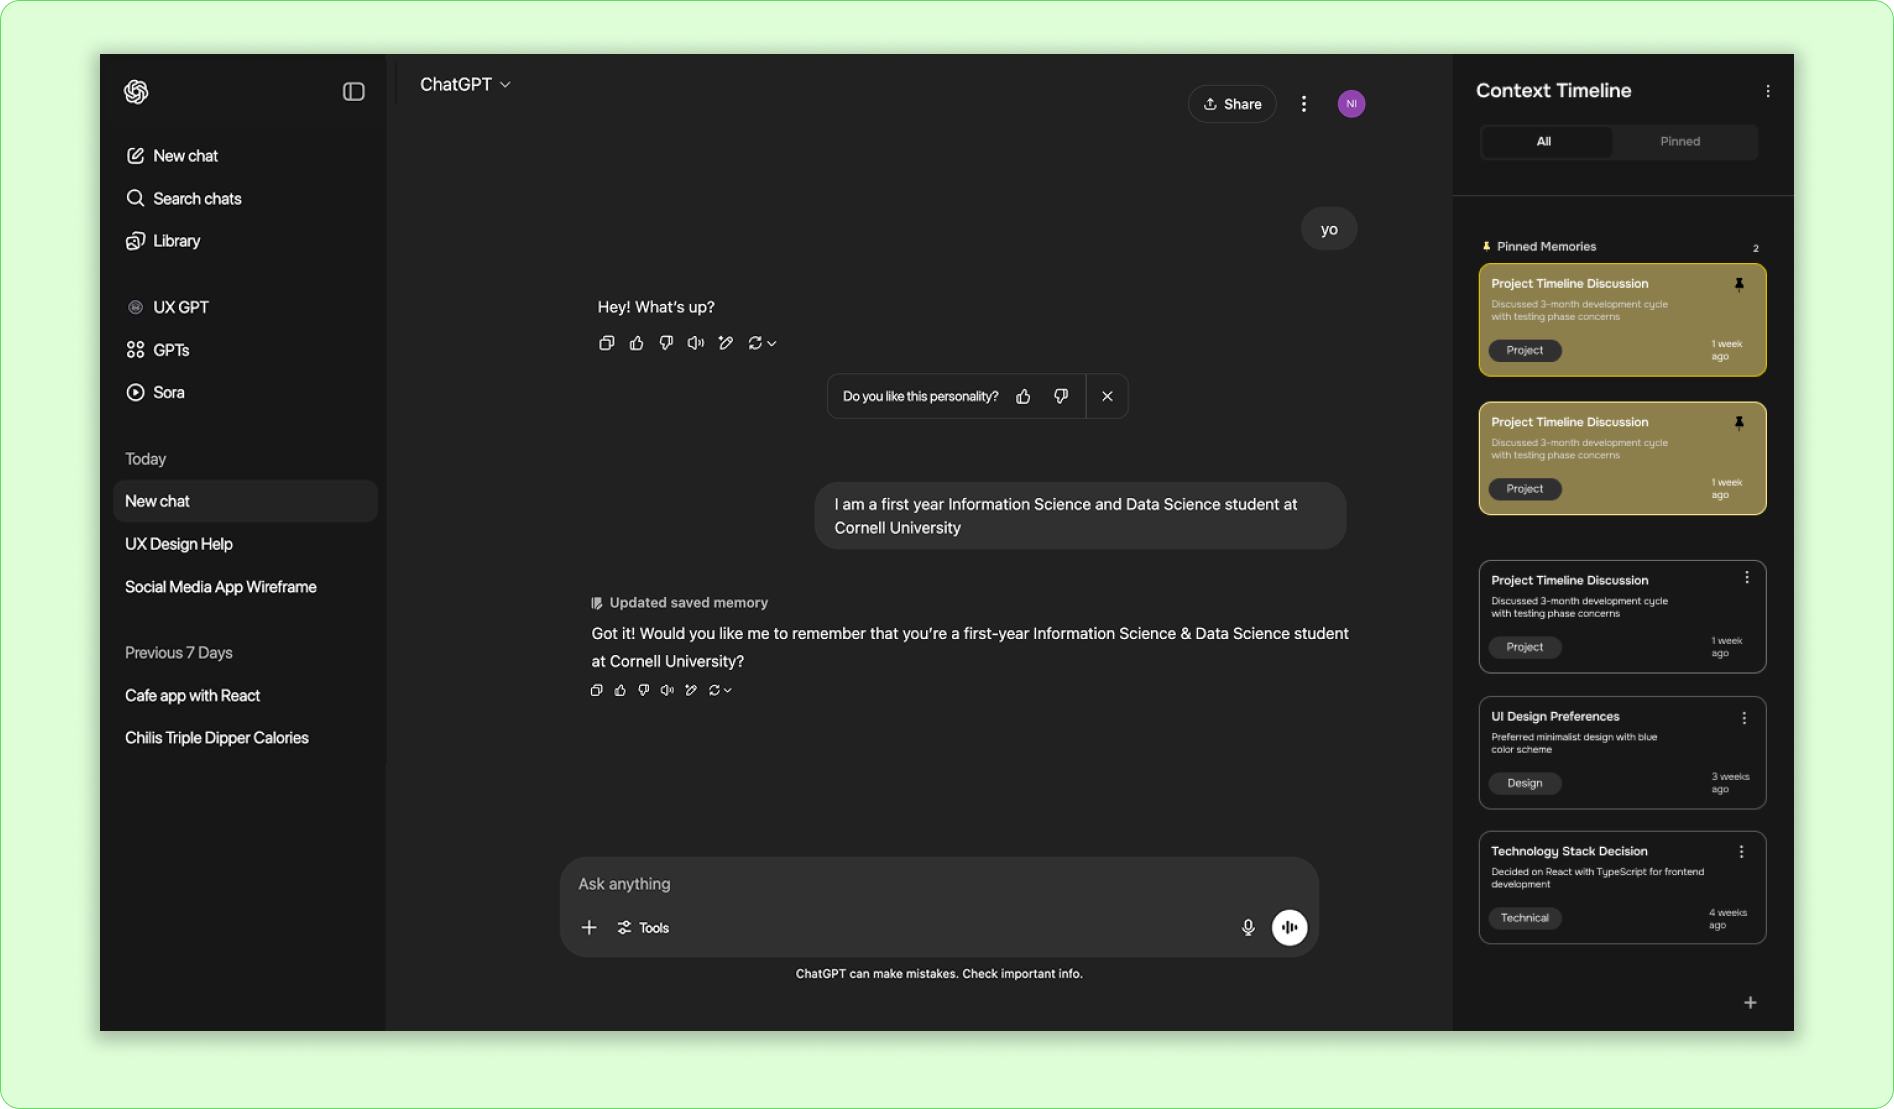
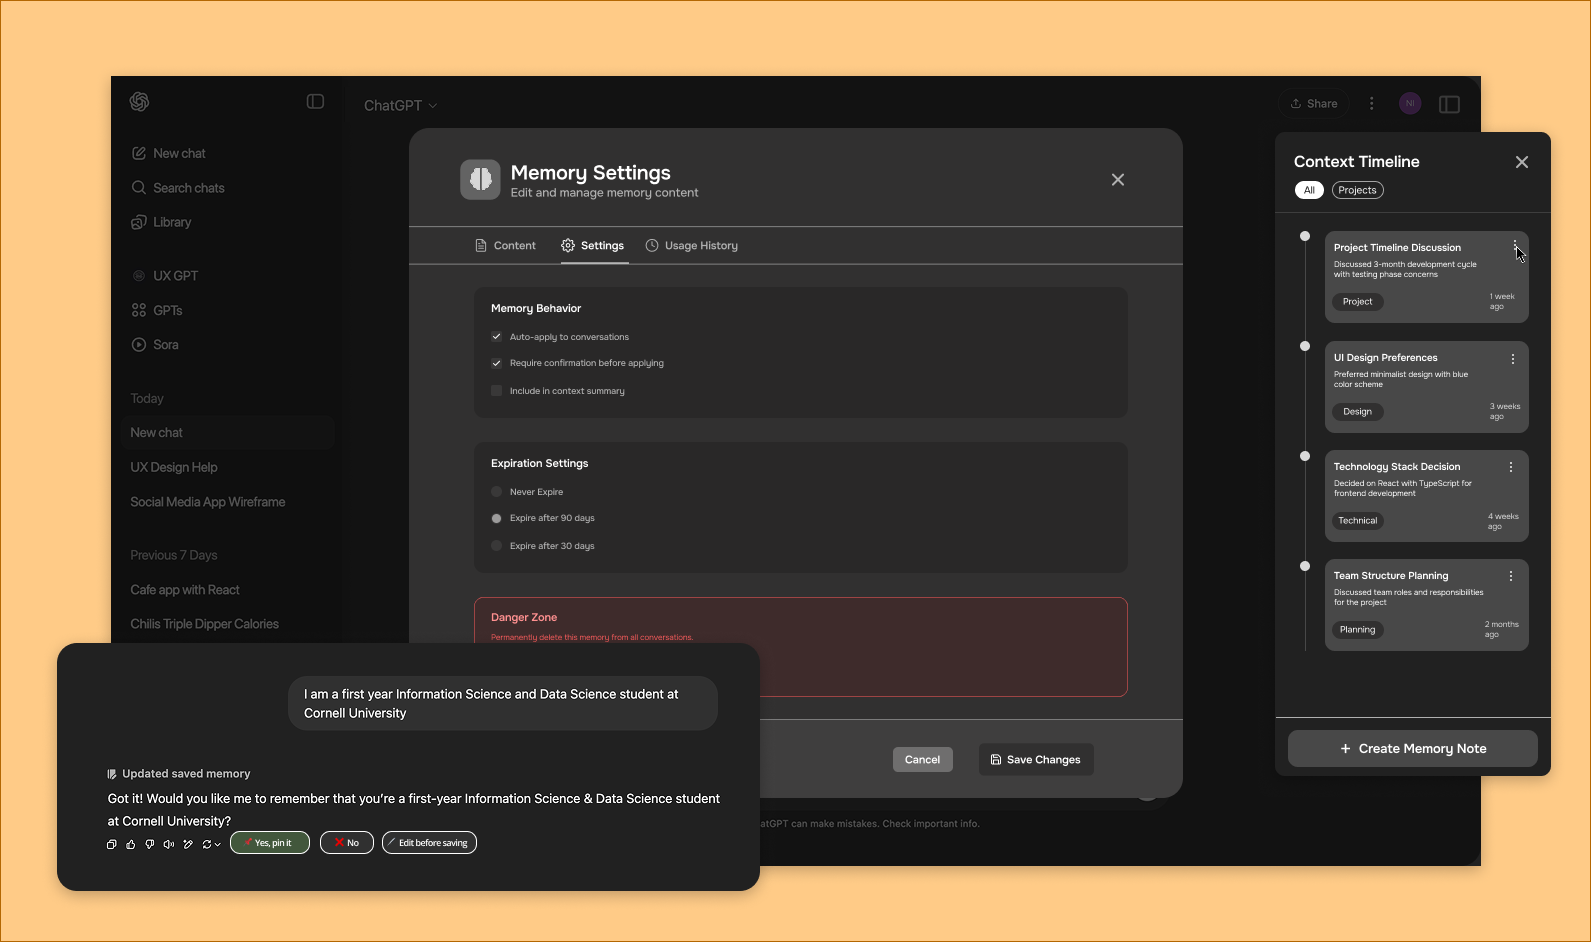
added a project, and changed the font

diff --git a/src/Home.jsx b/src/Home.jsx
@@ -13,6 +13,8 @@ import acgreen from './assets/ac green.png'
 import calorie from './assets/caloriethumb.jpg'
 import apple from './assets/apple.webp'
 import maingreen from './assets/main icon gree.png'
+import thinkneuro from './assets/thinkneuro thumbnail.jpg'
+import thinkneuro1 from './assets/thinkneuro.png'
 
 
 const projects = [
@@ -24,7 +26,7 @@ const projects = [
     tags: ["Generative AI", "Feature Implementation", "Redesign"],
     duration:
       "Designed a persistent Context Timeline Panel in ChatGPT to visualize recalled memories, enable inline memory controls, and organize memory by user-defined categories.",
-    overview: "Product Designer, May 2025 - Present",
+    overview: "PRODUCT DESIGNER // May 2025 - Present",
     link: "https://easy-iron-95a.notion.site/SearchNEU-19534c722e42805aa1ead97764bfb549",
     bgColor: "#FFFFFF",
     subtitle: "ChatGPT",
@@ -36,8 +38,8 @@ const projects = [
     icon: sandboxlogo,
     tags: ["Student Tools", "Course Info", "User Research"],
     duration:
-      "Built interactive tutorials for SearchNEU to help students explore courses, professors, and campus resources more intuitively.",
-    overview: "Product Designer, Jan 2025 - June 2025",
+      "Built and designed interactive tutorials for SearchNEU, creating guided flows and modular UI components to support feature discoverability; also contributed to designing the course notifications viewing page to streamline user access to updates.",
+    overview: "PRODUCT DESIGNER // Jan 2025 - June 2025",
     link: "https://easy-iron-95a.notion.site/SearchNEU-19534c722e42805aa1ead97764bfb549",
     bgColor: "#FFFFFF",
     // extraLargeImage: [search4],
@@ -50,10 +52,19 @@ const projects = [
     icon: safelogo,
     tags: ["Safety", "0 to 1", "User Research"],
     duration: "Designed a mobile application with SOS features, real-time alerts, and improved security guard contact to improve campus safety for Stamford High students.",
-    overview: "Founding Designer, Dec 2023 – June 2024",
+    overview: "FOUNDING DESIGNER // Dec 2023 – June 2024",
     link: "https://easy-iron-95a.notion.site/Safehub-19534c722e4280a69ff3e3b0650b9136",
     bgColor: "#FFFFFF",
     subtitle: "SafeHub",
+  },
+    {
+    image: thinkneuro,
+    title: "Centralizing Program Operations Insight",
+    icon: thinkneuro1,
+    duration: "Oversaw the development of an AI-powered engagement dashboard for ThinkNeuro’s Doctor Discovery Program, helping design data flows, define key metrics, and visualize student progress, kit logistics, and participation for elementary and middle school cohorts.",
+    overview: "PRODUCT MANAGER // June 2025 - Present",
+    bgColor: "#FFFFFF",
+    subtitle: "ThinkNeuro",
   },
     {
     image: calorie,
@@ -61,11 +72,12 @@ const projects = [
     title: "Resolving Unhealthy Eating Habits",
     icon: apple,
     tags: ["Safety", "0 to 1", "User Research"],
-    duration: "Designed an app that leverages AI to provide accurate nutritional analysis, personalized meal recommendations, and easy logging, empowering users to maintain healthier eating habits effortlessly..",
-    overview: "Founding Designer, Nov 2022 – February 2023",
+    duration: "Designed an app that leverages AI to provide accurate nutritional analysis, personalized meal recommendations, and easy logging, empowering users to maintain healthier eating habits effortlessly.",
+    overview: "FOUNDING DESIGNER // Nov 2022 – February 2023",
     bgColor: "#FFFFFF",
     subtitle: "Calori.e",
   },
+
 
 ];
 

diff --git a/src/App.css b/src/App.css
@@ -366,7 +366,7 @@ body, html {
 
 .project-meta h4 {
   margin: -80px 0 4px;
-  font-weight: 200;
+  font-weight: 30;
   color: #494949;
   
   
@@ -379,8 +379,7 @@ body, html {
 .project-meta p {
   margin: 0;
   font-size: 1em;
-  color: #4c4c4c;
-  font-family: 'IBM Plex Mono', monospace;
+  color: #535353;
 
 }
 
@@ -853,8 +852,8 @@ body, html {
 
 .project-overview {
   font-size: 6rem;
-  font-weight: 450;
-  color: #333131;
+  font-weight: 400;
+  color: #616161;
   margin: 0; 
 }
 
